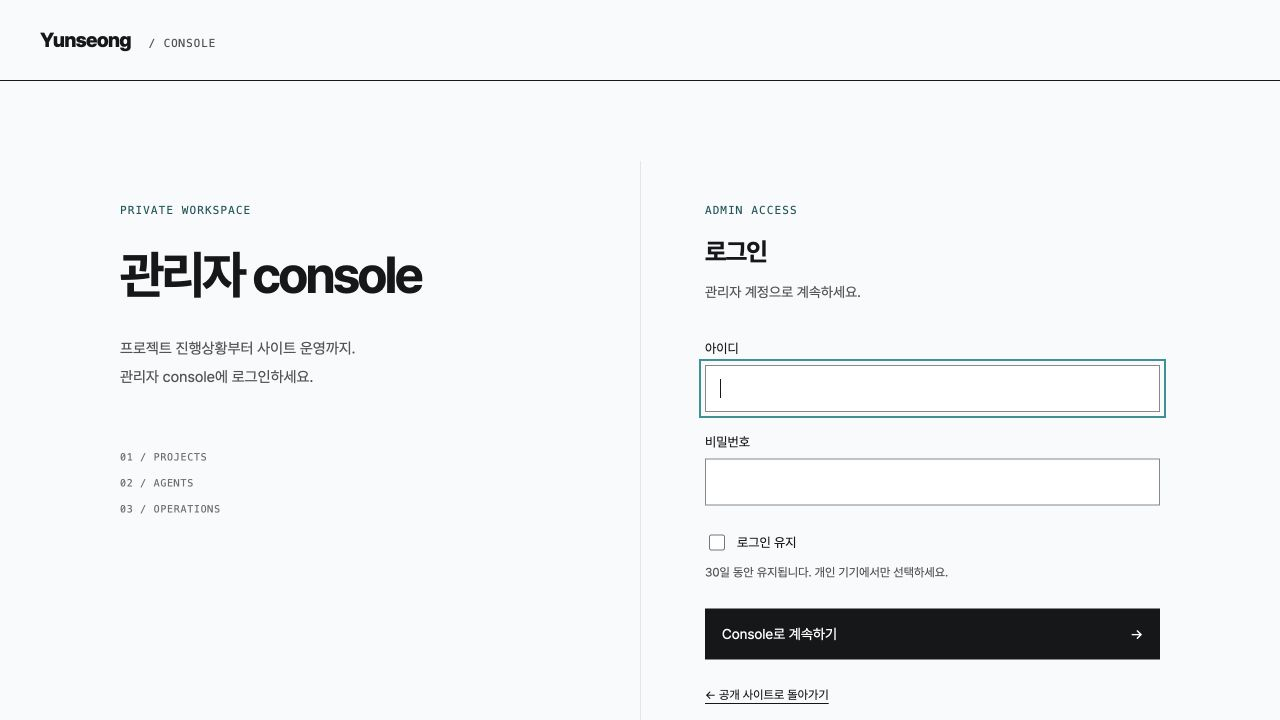
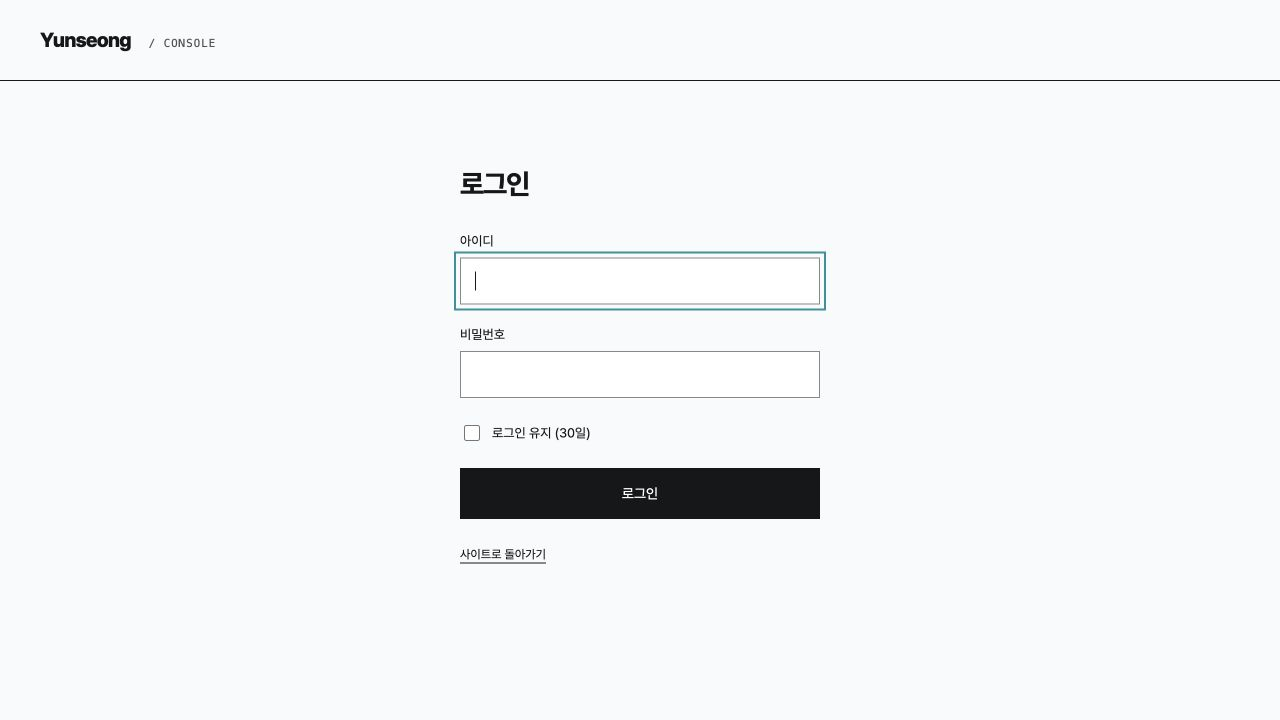
refactor: 로그인과 console 안내 문구 제거

diff --git a/src/main/resources/static/css/admin.css b/src/main/resources/static/css/admin.css
@@ -9,14 +9,12 @@
 .admin-topbar-actions button { background: none; border: 0; padding: 0; color: var(--text-secondary); font: inherit; cursor: pointer; }
 .admin-shell { display: grid; grid-template-columns: 220px minmax(0, 1fr); min-height: calc(100vh - 76px); }
 .admin-sidebar { padding: 36px 20px; border-right: 1px solid var(--hairline); display: flex; flex-direction: column; justify-content: space-between; gap: 40px; }
-.admin-nav-label, .admin-eyebrow { font: 11px var(--font-mono, monospace); letter-spacing: .1em; color: var(--accent-soft-text); }
+.admin-nav-label { font: 11px var(--font-mono, monospace); letter-spacing: .1em; color: var(--accent-soft-text); }
 .admin-nav-label { color: var(--text-tertiary); margin: 0 12px 16px; }
 .admin-nav-label:not(:first-child) { margin-top: 36px; }
 .admin-sidebar nav a { display: flex; align-items: center; gap: 14px; padding: 12px; font-size: 14px; text-decoration: none; border-left: 2px solid transparent; }
-.admin-sidebar nav a span { font: 10px var(--font-mono, monospace); color: var(--text-tertiary); }
 .admin-sidebar nav a:hover { background: var(--sunken); }
 .admin-sidebar nav a[aria-current] { color: var(--accent-soft-text); border-left-color: var(--accent); background: var(--accent-soft); font-weight: 650; }
-.admin-sidebar-note { color: var(--text-tertiary); font-size: 12px; line-height: 1.8; margin: 0 12px; }
 .admin-main { min-width: 0; width: 100%; max-width: 1600px; padding: 46px clamp(20px, 4vw, 64px) 80px; }
 .admin-main > .container, .admin-main .console.container { max-width: none; padding: 0; margin-top: 0 !important; }
 .workspace-heading { display: flex; justify-content: space-between; align-items: center; gap: 24px; margin-bottom: 36px; }
@@ -33,9 +31,7 @@
 .workspace-section-heading { display: flex; justify-content: space-between; align-items: center; margin-bottom: 20px; }
 .workspace-section-heading h2 { font-size: 20px; margin: 0; }
 .workspace-empty { border: 1px dashed var(--border); padding: 56px 24px; text-align: center; }
-.workspace-empty h3 { margin: 18px 0 12px; font-size: 23px; }
 .workspace-empty p { font-size: 14px; color: var(--text-secondary); }
-.workspace-empty code { display: inline-block; max-width: 100%; overflow-wrap: anywhere; margin-top: 16px; background: var(--sunken); color: var(--text-primary); padding: 12px 16px; }
 .project-list { border-top: 1px solid var(--border-strong); }
 .project-row { display: block; padding: 26px 0; border-bottom: 1px solid var(--hairline); text-decoration: none; }
 .project-row:hover h3 { color: var(--accent); }
@@ -48,9 +44,6 @@
 .project-summary { color: var(--text-secondary); font-size: 14px; line-height: 1.8; white-space: pre-wrap; overflow-wrap: anywhere; }
 .project-meta, .project-detail-meta { display: flex; flex-wrap: wrap; gap: 12px 24px; font-size: 12px; color: var(--text-tertiary); }
 .project-open { margin-left: auto; }
-.report-guide { margin-top: 36px; font-size: 13px; color: var(--text-secondary); }
-.report-guide summary { padding: 12px 0; cursor: pointer; }
-.report-guide pre { padding: 18px; background: var(--sunken); white-space: pre-wrap; overflow-wrap: anywhere; }
 .project-detail-heading { margin: 32px 0 16px; }
 .project-detail-meta { margin-bottom: 32px; }
 .project-stale-notice { background: var(--warn-soft); color: var(--warn-soft-text); padding: 16px; font-size: 14px; }
@@ -70,31 +63,23 @@
 .project-widget summary { font-size: 12px; color: var(--text-secondary); cursor: pointer; }
 .login-page { margin: 0; min-height: 100vh; display: flex; flex-direction: column; }
 .login-brand { padding: 28px 40px; border-bottom: 1px solid var(--border-strong); }
-.login-main { width: min(1040px, calc(100% - 80px)); margin: auto; display: grid; grid-template-columns: 1fr 1fr; padding: 80px 0; }
-.login-intro { padding: 32px 50px 32px 0; }
-.login-intro h1 { font-size: clamp(36px, 4vw, 54px); letter-spacing: -.06em; line-height: 1.2; margin: 28px 0; }
-.login-intro > p:not(.admin-eyebrow) { font-size: 15px; line-height: 1.9; color: var(--text-secondary); }
-.login-index { display: grid; gap: 14px; margin-top: 60px; font: 10px var(--font-mono, monospace); letter-spacing: .07em; color: var(--text-tertiary); }
-.login-panel { padding: 32px 0 32px 64px; border-left: 1px solid var(--hairline); }
-.login-panel h2 { font-size: 25px; letter-spacing: -.04em; margin: 20px 0 8px; }
-.login-panel form { margin-top: 36px; }
+.login-main { width: min(360px, calc(100% - 48px)); margin: clamp(48px, 12vh, 112px) auto; }
+.login-panel h1 { font-size: 28px; letter-spacing: -.04em; margin: 0 0 32px; }
+.login-panel form { margin: 0; }
 .login-panel label { display: block; font-size: 13px; margin-bottom: 9px; }
 .login-panel input[type="text"], .login-panel input[type="password"] { box-sizing: border-box; display: block; width: 100%; border: 1px solid var(--border); background: var(--surface); color: var(--text-primary); border-radius: 0; padding: 13px 14px; margin-bottom: 22px; font: inherit; }
-.login-panel .login-remember { display: flex; align-items: center; gap: 9px; margin: 26px 0 0; cursor: pointer; }
+.login-panel .login-remember { display: flex; align-items: center; gap: 9px; margin: 24px 0; cursor: pointer; }
 .login-remember input { width: 16px; height: 16px; accent-color: var(--accent); }
-.login-help { font-size: 12px; margin: 9px 0 26px; }
-.admin-button { width: 100%; display: flex; justify-content: space-between; padding: 16px; border: 1px solid var(--ink); background: var(--ink); color: var(--ink-on); font: inherit; font-size: 14px; cursor: pointer; }
+.admin-button { width: 100%; display: block; text-align: center; padding: 16px; border: 1px solid var(--ink); background: var(--ink); color: var(--ink-on); font: inherit; font-size: 14px; cursor: pointer; }
 .admin-button:hover { background: var(--accent); border-color: var(--accent); }
 .login-back { display: inline-block; margin-top: 28px; font-size: 12px; text-underline-offset: 4px; }
 .login-error { border-left: 2px solid var(--danger, #b63132); background: var(--danger-soft, #ffe9e6); color: var(--danger, #b63132); padding: 12px; font-size: 13px; margin-top: 24px; }
-.login-footer { border-top: 1px solid var(--hairline); padding: 24px 40px; font: 10px var(--font-mono, monospace); letter-spacing: .08em; color: var(--text-tertiary); }
 .login-page :focus-visible, .admin-page :focus-visible { outline: 2px solid var(--focus); outline-offset: 4px; }
 @media (max-width: 900px) {
     .admin-shell { grid-template-columns: 180px minmax(0,1fr); }
     .admin-sidebar { padding: 28px 10px; }
     .admin-main { padding: 32px 24px 60px; }
     .widget-grid { grid-template-columns: repeat(2,minmax(0,1fr)); }
-    .login-panel { padding-left: 32px; }
 }
 @media (max-width: 640px) {
     .admin-topbar { padding: 18px; flex-wrap: wrap; }
@@ -104,7 +89,7 @@
     .admin-sidebar { border-right: 0; border-bottom: 1px solid var(--hairline); padding: 12px 16px; }
     .admin-sidebar nav { display: flex; flex-wrap: wrap; gap: 4px; }
     .admin-sidebar nav a { font-size: 12px; padding: 9px; }
-    .admin-sidebar nav a span, .admin-sidebar .admin-nav-label, .admin-sidebar-note { display: none; }
+    .admin-sidebar .admin-nav-label { display: none; }
     .admin-main { padding: 28px 18px 48px; }
     .workspace-heading { align-items: flex-start; gap: 12px; }
     .workspace-stats > div { padding: 18px 12px; }
@@ -115,10 +100,4 @@
     .widget-grid { grid-template-columns: minmax(0,1fr); gap: 16px; }
     .project-widget { padding: 18px; }
     .login-brand { padding: 24px; }
-    .login-main { width: calc(100% - 48px); display: block; padding: 32px 0 48px; }
-    .login-intro { padding: 0 0 28px; }
-    .login-intro h1 { font-size: 36px; margin: 16px 0; }
-    .login-intro > p:not(.admin-eyebrow), .login-index { display: none; }
-    .login-panel { border-left: 0; border-top: 1px solid var(--hairline); padding: 28px 0 0; }
-    .login-footer { padding: 20px 24px; }
 }

diff --git a/src/main/resources/templates/login.html b/src/main/resources/templates/login.html
@@ -13,16 +13,8 @@
 <body class="login-page">
     <a href="/" class="login-brand">Yunseong <span>/ CONSOLE</span></a>
     <main class="login-main" id="main">
-        <section class="login-intro" aria-labelledby="login-title">
-            <p class="admin-eyebrow">PRIVATE WORKSPACE</p>
-            <h1 id="login-title">관리자 console</h1>
-            <p>프로젝트 진행상황부터 사이트 운영까지.<br>관리자 console에 로그인하세요.</p>
-            <div class="login-index" aria-hidden="true"><span>01 / PROJECTS</span><span>02 / AGENTS</span><span>03 / OPERATIONS</span></div>
-        </section>
         <section class="login-panel" aria-labelledby="form-title">
-            <p class="admin-eyebrow">ADMIN ACCESS</p>
-            <h2 id="form-title">로그인</h2>
-            <p class="admin-muted">관리자 계정으로 계속하세요.</p>
+            <h1 id="form-title">로그인</h1>
             <p th:if="${param.error != null}" class="login-error" role="alert">아이디 또는 비밀번호를 확인해 주세요.</p>
             <form th:action="@{/login}" method="post">
                 <label for="username">아이디</label>
@@ -30,15 +22,13 @@
                 <label for="password">비밀번호</label>
                 <input id="password" name="password" type="password" autocomplete="current-password" required>
                 <label class="login-remember" for="remember-me">
-                    <input id="remember-me" name="remember-me" type="checkbox" value="true" aria-describedby="remember-help">
-                    로그인 유지
+                    <input id="remember-me" name="remember-me" type="checkbox" value="true">
+                    로그인 유지 (30일)
                 </label>
-                <p id="remember-help" class="admin-muted login-help">30일 동안 유지됩니다. 개인 기기에서만 선택하세요.</p>
-                <button class="admin-button" type="submit">Console로 계속하기 <span aria-hidden="true">→</span></button>
+                <button class="admin-button" type="submit">로그인</button>
             </form>
-            <a class="login-back" href="/">← 공개 사이트로 돌아가기</a>
+            <a class="login-back" href="/">사이트로 돌아가기</a>
         </section>
     </main>
-    <footer class="login-footer">YUNSEONG / PERSONAL OPERATIONS</footer>
 </body>
 </html>

diff --git a/src/main/resources/templates/console/overview.html b/src/main/resources/templates/console/overview.html
@@ -3,7 +3,7 @@
 <head><title>프로젝트 개요 · Console</title></head>
 <body><div layout:fragment="content">
     <header class="workspace-heading">
-        <div><p class="admin-eyebrow">WORKSPACE / OVERVIEW</p><h1>프로젝트 개요</h1><p class="admin-muted">각 프로젝트의 최근 agent 보고를 확인하세요.</p></div>
+        <div><h1>프로젝트 개요</h1></div>
         <a class="admin-text-link" href="/admin/console">새로고침 ↻</a>
     </header>
     <div class="workspace-stats" role="group" aria-label="프로젝트 요약">
@@ -14,10 +14,7 @@
     <section id="projects" aria-labelledby="projects-title">
         <div class="workspace-section-heading"><h2 id="projects-title">프로젝트</h2><span class="admin-muted">최근 보고순</span></div>
         <div class="workspace-empty" th:if="${projects.empty}">
-            <span class="admin-eyebrow">READY FOR YOUR FIRST REPORT</span>
-            <h3>첫 프로젝트를 연결하세요.</h3>
-            <p>CLI로 보고서를 보내면 프로젝트와 위젯이 여기에 나타납니다.</p>
-            <code>bin/website project report my-project report.json</code>
+            <p>등록된 프로젝트가 없습니다.</p>
         </div>
         <div class="project-list" th:unless="${projects.empty}">
             <a class="project-row" th:each="project : ${projects}" th:href="@{/admin/console/projects/{slug}(slug=${project.slug})}">
@@ -27,12 +24,5 @@
             </a>
         </div>
     </section>
-    <details class="report-guide">
-        <summary>Agent 연결 안내</summary>
-        <p>프로젝트 ID별 최신 보고서가 저장됩니다. 같은 ID로 다시 전송하면 내용과 위젯 구성이 갱신됩니다.</p>
-        <p>서버와 CLI에 동일한 <code>BRIEFING_TOKEN</code>을 설정한 뒤 다음 명령으로 전송하세요.</p>
-        <pre><code>WEBSITE_URL=https://yunseong.dev bin/website project report my-project report.json</code></pre>
-        <p class="admin-muted">인증 토큰은 개인 환경변수로 관리하세요. 보고서는 관리자에게만 표시됩니다.</p>
-    </details>
 </div></body>
 </html>

diff --git a/src/main/resources/templates/fragments/admin_navigation.html b/src/main/resources/templates/fragments/admin_navigation.html
@@ -10,14 +10,13 @@
 <aside th:fragment="sidebar" class="admin-sidebar">
     <nav aria-label="관리자 메뉴">
         <p class="admin-nav-label">WORKSPACE</p>
-        <a href="/admin/console" th:attr="aria-current=${adminSection == 'overview' ? 'page' : null}"><span aria-hidden="true">01</span> 프로젝트 개요</a>
-        <a href="/admin/console/traffic" th:attr="aria-current=${adminSection == 'traffic' ? 'page' : null}"><span aria-hidden="true">02</span> 사이트 운영</a>
-        <a href="/admin/chat" th:attr="aria-current=${adminSection == 'chat' ? 'page' : null}"><span aria-hidden="true">03</span> 대화 기록</a>
+        <a href="/admin/console" th:attr="aria-current=${adminSection == 'overview' ? 'page' : null}">프로젝트 개요</a>
+        <a href="/admin/console/traffic" th:attr="aria-current=${adminSection == 'traffic' ? 'page' : null}">사이트 운영</a>
+        <a href="/admin/chat" th:attr="aria-current=${adminSection == 'chat' ? 'page' : null}">대화 기록</a>
         <p class="admin-nav-label">PUBLISHING</p>
         <a href="/admin/memos/new" th:attr="aria-current=${adminSection == 'memo' ? 'page' : null}">글 작성</a>
         <a href="/admin/console/drafts" th:attr="aria-current=${adminSection == 'drafts' ? 'page' : null}">초안 검토</a>
         <a href="/admin/miniapps" th:attr="aria-current=${adminSection == 'apps' ? 'page' : null}">미니앱 관리</a>
     </nav>
-    <p class="admin-sidebar-note">내 작업의 현재 상태.<br>보고 시각을 함께 확인하세요.</p>
 </aside>
 </html>

diff --git a/src/main/resources/templates/console/project.html b/src/main/resources/templates/console/project.html
@@ -4,7 +4,7 @@
 <body><div layout:fragment="content">
     <a href="/admin/console" class="admin-text-link">← 프로젝트 개요</a>
     <header class="workspace-heading project-detail-heading">
-        <div><p class="admin-eyebrow" th:text="'PROJECT / ' + ${project.slug}"></p><h1 th:text="${project.content.name}"></h1><p class="project-summary" th:text="${project.content.summary}"></p></div>
+        <div><h1 th:text="${project.content.name}"></h1><p class="project-summary" th:text="${project.content.summary}"></p></div>
         <span class="project-status" th:attr="data-status=${project.content.status}" th:text="${project.content.status.label}"></span>
     </header>
     <div class="project-detail-meta"><span th:text="${project.content.agent}"></span><span>마지막 보고 <time th:datetime="${project.updatedAt}" th:text="${#temporals.format(project.updatedAt.atZone(T(java.time.ZoneId).of('Asia/Seoul')), 'yyyy-MM-dd HH:mm')} + ' KST'"></time></span></div>

diff --git a/src/test/java/dev/yunseong/website/manage/ConsoleIntegrationTest.java b/src/test/java/dev/yunseong/website/manage/ConsoleIntegrationTest.java
@@ -61,7 +61,7 @@ class ConsoleIntegrationTest {
     void loginPageIsCustomAndIncludesCsrfAndOptIn() throws Exception {
         mvc.perform(get("/login"))
                 .andExpect(status().isOk())
-                .andExpect(content().string(containsString("Console로 계속하기")))
+                .andExpect(content().string(containsString("로그인")))
                 .andExpect(content().string(containsString("name=\"_csrf\"")))
                 .andExpect(content().string(containsString("name=\"remember-me\"")))
                 .andExpect(content().string(not(containsString("Please sign in"))));
@@ -139,7 +139,7 @@ class ConsoleIntegrationTest {
     @Test
     void consoleUsesAdminNavigationAndKeepsTrafficAndOldBookmarks() throws Exception {
         mvc.perform(get("/admin/console").with(user("admin")))
-                .andExpect(status().isOk()).andExpect(content().string(containsString("첫 프로젝트를 연결하세요.")))
+                .andExpect(status().isOk()).andExpect(content().string(containsString("등록된 프로젝트가 없습니다.")))
                 .andExpect(content().string(containsString("aria-label=\"관리자 메뉴\"")));
         mvc.perform(get("/admin/console/traffic").with(user("admin")))
                 .andExpect(status().isOk()).andExpect(content().string(containsString("id=\"consoleTabs\"")));

diff --git a/.plan/issues/2026-10-25-issue-221-minimal-admin-copy.md b/.plan/issues/2026-10-25-issue-221-minimal-admin-copy.md
@@ -1,0 +1,36 @@
+# 2026-10-25 — 로그인과 console 설명 문구 제거
+
+- Date: 2026-10-25
+- GitHub Issue: #221, draft pull request #222 후속 변경
+- Status: 구현 및 검증 완료
+
+## Goal
+
+로그인은 제목과 입력·선택·로그인 버튼만 있는 한 열 폼으로 줄인다. Console의
+장식 문구, 반복 안내, 연결 방법 설명을 제거한다.
+
+## Non-goals
+
+인증 동작, 전송 명령, 보고서 내용, 통계 기능, 공개 사이트 디자인 변경.
+
+## Context / Constraints
+
+오류, CSRF, 접근성 label, 로그인 유지 기간, 보고 상태와 갱신 시각은 유지한다.
+
+## Approach (Checklist)
+- [x] **Step 0: Recon** — 로그인/console template, CSS와 기존 테스트 참조 확인.
+- [x] **Step 1: Implementation** — HTML 2개 track과 테스트 track 분리. 부모가 CSS에서 삭제된 요소의 규칙을 제거하고 한 열 폼으로 변경.
+- [x] **Step 2: Tests** — 기존 인증·보고 테스트, 실제 desktop와 390px 표시, screen capture 갱신.
+- [x] **Step 3: Rollout / Rollback** — draft pull request #222에 추가. 배포하지 않으며 commit revert로 복구.
+
+## Validation
+- **Commands to run:** `./gradlew test` 707개 통과, `git diff --check` 통과, 실제 로그인·빈 목록·보고서 표시 확인. 실제 HTTP 응답의 390px 로그인과 프로젝트 표시 확인. 네 장의 screen capture 갱신. 실제 휴대폰은 사용하지 않음.
+- **Expected output:** 문구와 장식만 제거되며 로그인·로그인 유지·보고·관리자 메뉴가 동작한다.
+
+## Risks & Rollback
+- **Risks:** 로그인 안내는 줄였지만 유지 기간과 오류를 남긴다. Agent 연결 설명은 README와 설치 skill에서 제공한다.
+- **Rollback steps:** 후속 commit을 revert한다.
+
+## Open Questions
+
+없음. 실제 agent 보고 내용과 갱신 지연 안내는 제거하지 않는다.
